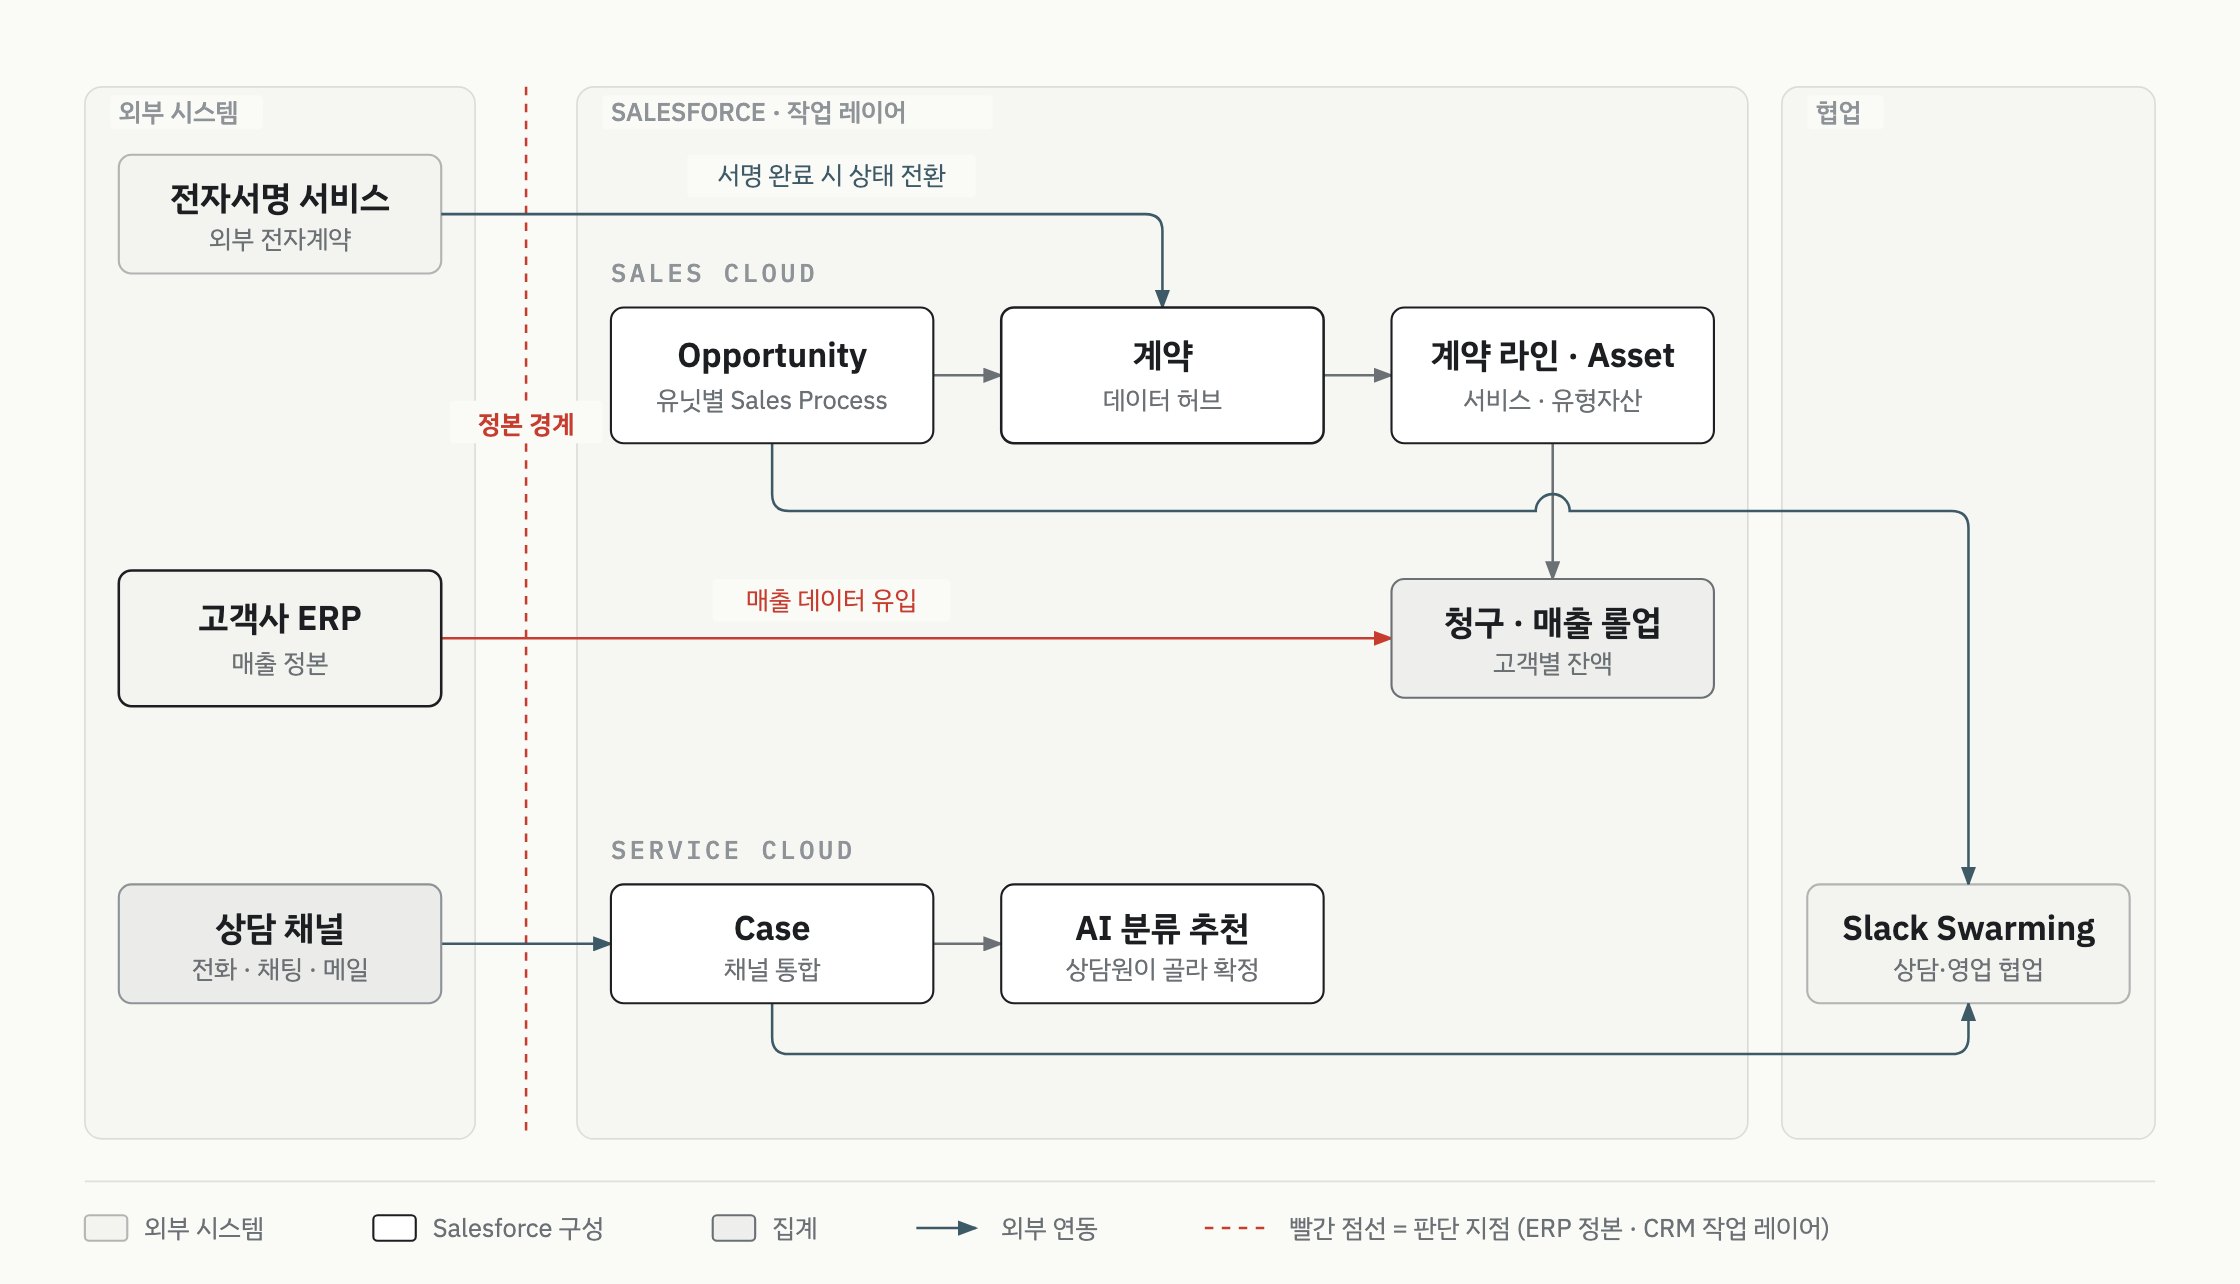
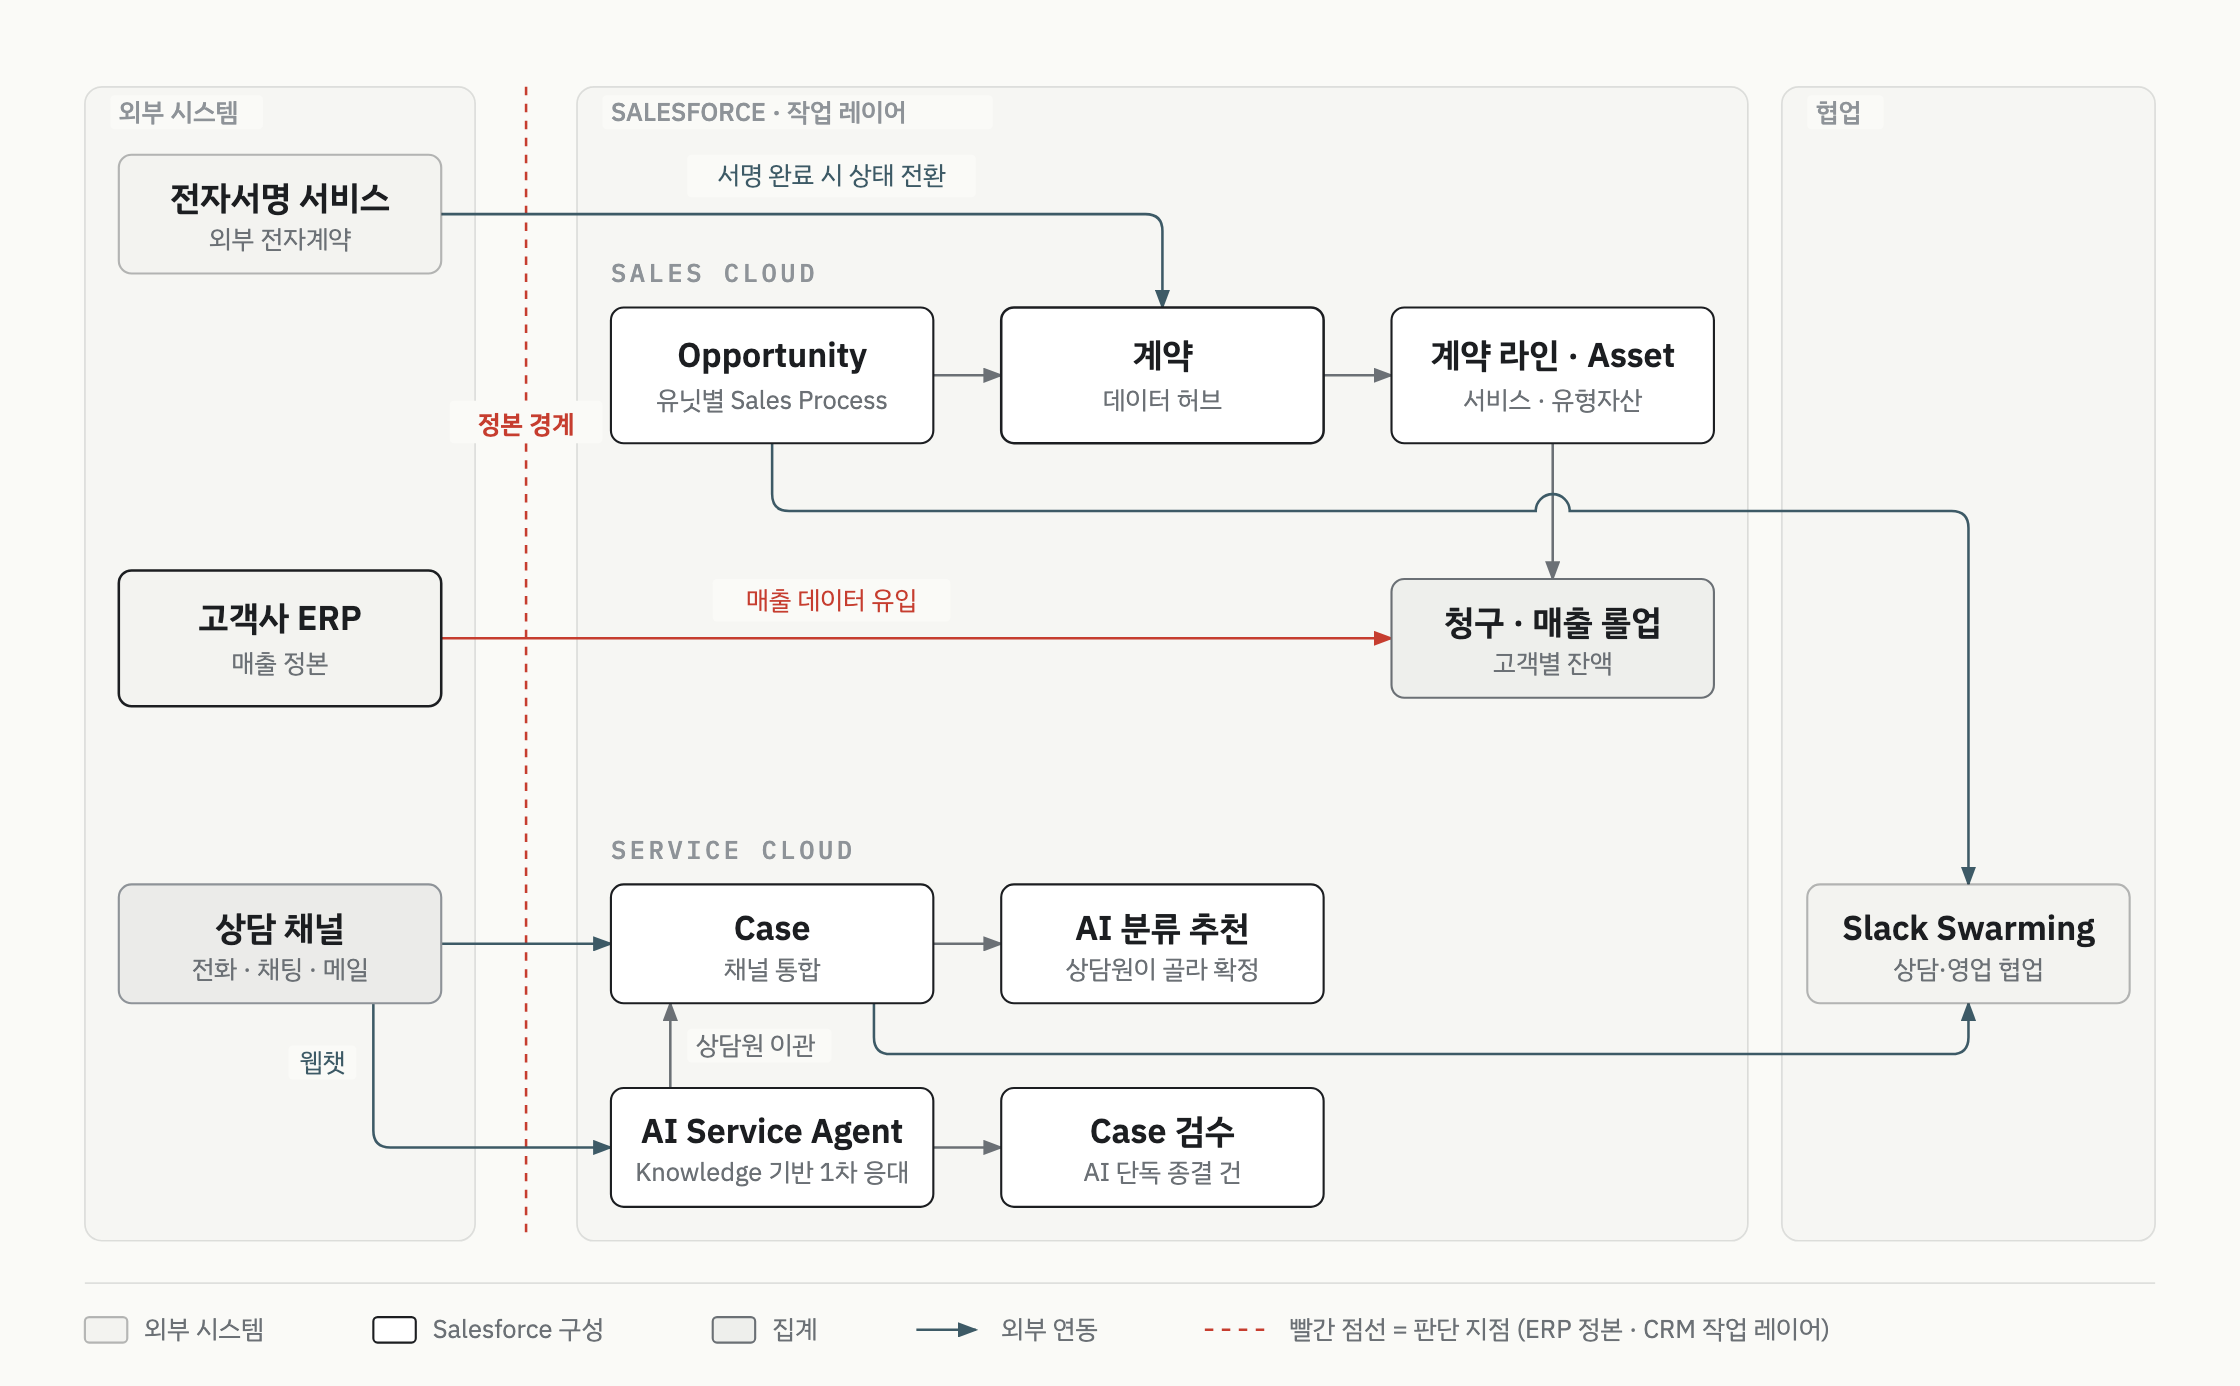
Add web chat AI Service Agent flow to B2B subscription commerce write-up

diff --git a/projects/b2b-subscription-commerce/README.md b/projects/b2b-subscription-commerce/README.md
@@ -7,7 +7,7 @@
 | 구분 | 고객 구축 프로젝트 (Salesforce 파트너사 뉴브릭) |
 | 기간 | 2026.04 ~ 진행 중 |
 | 역할 | 설계부터 Apex·Flow·배포까지 단독 수행 |
-| 제품 | Sales Cloud, Service Cloud |
+| 제품 | Sales Cloud, Service Cloud, Agentforce, Data Cloud |
 | 상태 | Sandbox 구축 완료 항목 있음, 1차 Go-Live 2026-10 예정 |
 
 ## 업무 문제
@@ -30,6 +30,7 @@
 - 계약과 계약 라인을 중심에 두고 서비스·유형자산을 Asset으로 구분했습니다.
 - 고객별 잔액과 청구·매출 데이터를 CRM에서 롤업으로 볼 수 있게 했습니다.
 - Service Cloud로 상담 채널을 모았습니다.
+- 웹챗 앞단에 AI Service Agent를 두고 Knowledge로 1차 응대하게 했습니다. 필요하면 상담원에게 이관합니다.
 
 ## 설계 판단
 
@@ -51,6 +52,7 @@
 |:--|:--|:--|:--|
 | 협업 | 상담·영업 건을 사내 메신저에 따로 옮겨 적으며 협업 | 상담 Case와 영업기회에서 Slack Swarming으로 관련자를 모아 처리 | Sandbox 배포 |
 | 상담 분류 | 미분류 문의를 사람이 수기로 분류 | 상담원이 버튼을 누르면 AI가 분류 3건을 추천하고, 상담원이 골라 확정 | Sandbox 배포·활성, 정확도 평가 대기 |
+| 웹챗 | 채팅 문의를 상담원이 처음부터 응대 | AI Service Agent가 Knowledge로 1차 응대하고, 필요하면 상담원에게 넘김. AI가 끝낸 대화는 검수 단계로 | Sandbox 배포 |
 | 계약 | 종이·수기 계약 | 전자서명 서비스 연동, 서명이 끝나면 계약 상태가 자동으로 바뀜 | 일부 구현 |
 
 ## 재사용 원칙

diff --git a/README.md b/README.md
@@ -45,7 +45,7 @@ Client work at Newbrick. Client names and source code stay private; each link is
 
 | Project | Period | What it is | Stack |
 |:--|:--|:--|:--|
-| [B2B Subscription Commerce CRM](projects/b2b-subscription-commerce/) | 2026.04 - present | Solo end-to-end build: multi-unit sales pipelines, contract hub, service channels. CRM kept as the working layer while the client's ERP stays the source of truth. | Sales Cloud, Service Cloud |
+| [B2B Subscription Commerce CRM](projects/b2b-subscription-commerce/) | 2026.04 - present | Solo end-to-end build: multi-unit sales pipelines, contract hub, service channels with an AI Service Agent on web chat. CRM kept as the working layer while the client's ERP stays the source of truth. | Sales Cloud, Service Cloud, Agentforce, Data Cloud |
 | [Graduate School Academic Admin CRM](projects/graduate-school-academic-admin/) | 2025.12 - 2026.02 | Admissions modeled as a sales pipeline, catalog separated from per-student records, grades synced in from the school's academic system as the source of truth. | Sales Cloud, Flow, Apex |
 
 ## Demos
